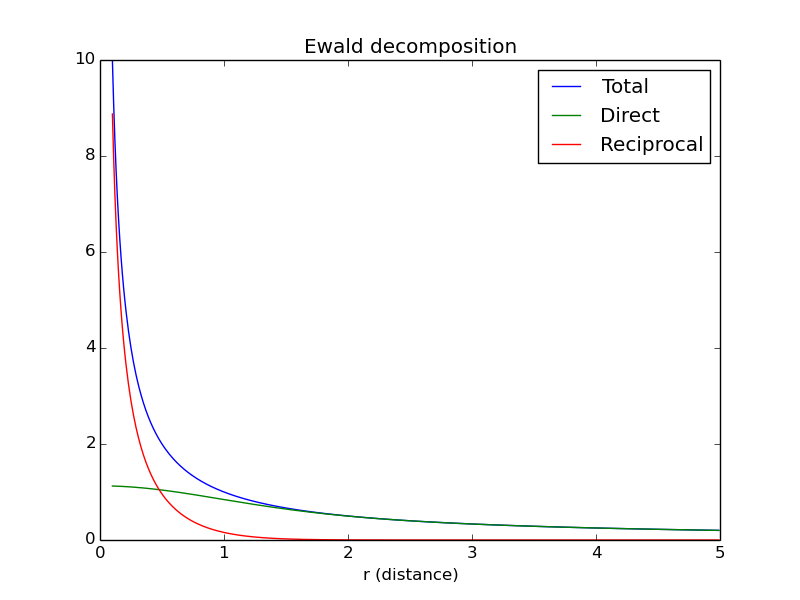
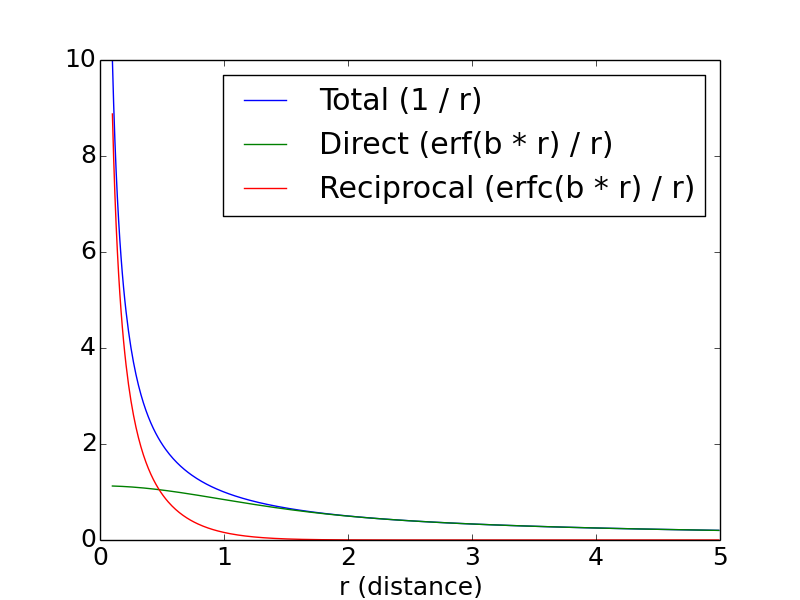
.

diff --git a/data/thesis/presentation.tex b/data/thesis/presentation.tex
@@ -7,15 +7,24 @@
 \usepackage{placeins}
 \usepackage{graphicx}
 \usepackage{tikz}
-\author{Aleksei Iupinov}
-\title{Particle mesh Ewald on a GPU}
+
+\DeclareMathOperator\erf{erf}
+\DeclareMathOperator\erfc{erfc}
+
+
+\author[Aleksei Iupinov]{Aleksei Iupinov\\{\footnotesize Supervised by: Berk Hess}}
+%\author{Aleksei Iupinov}
+\title{Master thesis project: \\Particle mesh Ewald on a GPU}
+\usepackage{subcaption}
 %\setbeamercovered{transparent} 
-%\setbeamertemplate{navigation symbols}{} 
+\setbeamertemplate{navigation symbols}{} 
 %\logo{} 
 \institute{KTH Royal Institute of Technology} 
 %\date{} 
 %\subject{} 
 \begin{document}
+%\setbeamertemplate{caption}{\raggedright\insertcaption\par}
+\captionsetup[figure]{labelformat=empty}
 
 \begin{frame}
 \titlepage
@@ -32,7 +41,7 @@
 \item scaling performance is important (timesteps of $10^{-15}$ seconds, processes of $10^{-6}$ -- $10^{-3}$ seconds) 
 \item the balance shifting towards GPU/accelerator hardware (core speed limited, increasing number of cores instead)
 \item most computational time taken by electrostatic interactions
-\item PME used for computing long-range component
+\item PME (particle mesh Ewald) used for computing so-called long-range component
 \end{itemize}
 \end{frame}
 
@@ -42,7 +51,8 @@
 \item particles coordinates $\bold{r}_1, \dotsc, \bold{r}_N$ and charges $q_1, \dotsc, q_N$ known, forces $\bold{f}_1, \dotsc, \bold{f}_N$ acting on particles to be computed 
 \item electrostatic potential:
 \[E(\bold{r}_1, \dotsc, \bold{r}_N) = \frac{1}{4 \pi \varepsilon_0}\sum\limits_{i < j}\frac{q_i q_j}{\lvert \bold{r}_i-\bold{r}_j\rvert}\]
-\[\bold{f_i} = \frac{\partial E}{\partial \bold{r_i}} \]
+\item forces are derived analytically:
+\[\bold{f_i} = -\frac{\partial E}{\partial \bold{r_i}} \]
 \item large $N$ and computational effort $O(N^2) \implies$ slow computation!
 \end{itemize}
 \end{frame}
@@ -50,29 +60,41 @@
 \section{Method}
 \begin{frame}{Ewald sum}
 \begin{itemize}
-\item interaction dependency is $\frac{1}{\lvert \bold{r}\rvert }$
-% graph of decompose
-% not converging?
-\item Ewald sum: decomposition into direct and reciprocal space components
 
-\FloatBarrier
-\begin{figure} 
-    \includegraphics[width=0.2\textwidth]{pics/cutoff1.png}
-\end{figure}
-\begin{figure} 
-    \includegraphics[width=0.2\textwidth]{pics/cutoff2.png}
-\end{figure}
-\FloatBarrier
+\item interaction dependency is $\frac{1}{\lvert \bold{r}\rvert }$
+\item Ewald sum: decomposition into direct and reciprocal space components, based on Gaussian error function
 % formulas
-\item the direct space component converges before a certain cut-off
-\item the reciprocal component converges well in the Fourier space
+\item the direct space component converges within a certain cut-off
+\item the reciprocal component converges in the Fourier space
 \end{itemize}
+%\noindent\makebox[\textwidth][c]{%
+\begin{figure} 
+\begin{minipage}[t]{0.4\textwidth}
+    \includegraphics[width=1\textwidth]{pics/{cutoff0.7}.png}
+\end{minipage}
+\begin{minipage}[t]{0.4\textwidth}
+    \includegraphics[width=1\textwidth]{pics/cutoff2.png}
+\end{minipage}
+\caption{Parametrized decomposition}
+\end{figure}
+%}
+
 \end{frame}
 
 \begin{frame}{Ewald sum}
+\[E = E_{dir} + E_{rec} + E_{corr}\,\mathrm{,}\]
+where
+\begin{equation} \label{eq:Edir}
+E_{dir} = \frac{1}{2}\sum\limits_{\bold{n\in \mathbb{Z}}}^*\sum\limits_{i=1}^N\sum\limits_{j=1}^N\frac{q_i q_j \erfc(\beta\lvert\bold{r}_i - \bold{r}_j + \bold{n} \rvert)}{\lvert\bold{r}_i - \bold{r}_j + \bold{n} \rvert}
+\end{equation}
+\begin{equation} \label{eq:Erec}
+E_{rec}=\frac{1}{2\pi V}\sum\limits_{\bold{m} \in \{\mathbb{Z}^3 \setminus \mathbb{0}\}}\frac{\exp(-\frac{\pi^2\bold{m}^2}{\beta^2})}{\bold{m}^2}S(\bold{m})S(\bold{-m})
+\end{equation}
+\[E_{corr} = -\frac{1}{2}\sum\limits_{(i,j)\in M}\frac{q_i q_j \erf(\beta\lvert\bold{r}_i - \bold{r}_j\rvert)}{\lvert\bold{r}_i - \bold{r}_j\rvert} - \frac{\beta}{\sqrt{\pi}}\sum\limits_{i=1}^N q_i^2\]
 \begin{itemize}
 \item Fourier component $\implies$ periodic boundary conditions (system is a unit cell tiled in all directions)
 \item charge neutrality of the unit cell is needed for convergence
+\item additional correction component (bonded interactions split from direct sum)
 \item can be implemented in $O(N^\frac{3}{2})$
 %\item manipulating the cut-off can change the balance
 
@@ -89,34 +111,36 @@
 \item interpolation onto a discrete 3D grid
 \item smooth PME: B-Spline interpolation, the potential function is smooth $\implies$ simple analytical derivation of forces
 \item can be implemented in $O(N \log(N))$
+% formulas
 \end{itemize}
 \end{frame}
 
 \begin{frame}{PME stages}
 \begin{enumerate}
-\item Calculate the B-spline interpolation values for all particles (equation \eqref{BSpline}).
-\item Spread the particle charges on a discrete 3D grid (using the spline values), calculating the array $Q$ (equation \eqref{Qspread}).
-\item Perform three-dimensional real-to-complex FFT of the grid.
-\item Calculate the reciprocal energy contribution(equation \eqref{Erecfull}), transform the grid.
-\item Perform three-dimensional complex-to-real FFT of the convoluted grid.
-\item Gather the particle forces from the grid (using the spline values) (equation \eqref{Fgather}).
+\item calculate the B-spline interpolation values for all particles
+\item spread the particle charges on a discrete 3D grid
+\item perform three-dimensional real-to-complex FFT of the grid
+\item calculate the reciprocal energy contribution(equation \eqref{Erecfull}), transform the grid
+\item perform three-dimensional complex-to-real FFT of the grid
+\item gather the particle forces from the grid
 \end{enumerate}
 \end{frame}
 
 %pictures?
 
 \section{Implementation}
-\begin{frame}{Implementation (or still problem)}
+\begin{frame}{Implementation}
 \begin{itemize}
 \item open source MD software GROMACS 5.1
 \item short-range particle pair interactions computed either on CPU or GPU (CUDA/OpenCL)
 \item PME only implemented for CPU
-\item PME GPU implementation can mean: more performance, more load balancing, more GPU hardware utilisation, less CPU bottleneck 
+%\item PME GPU implementation can mean: more performance, more load balancing, more GPU hardware utilisation, less CPU bottleneck 
 %mention cutoff
 \end{itemize}
 \end{frame}
 
-\begin{frame}{PME GPU implementation potential benefits}
+\begin{frame}{Potential benefits of PME on GPU}
+% should be moved
 \begin{itemize}
 \item more performance
 \item more possibilities for load balancing
@@ -125,7 +149,35 @@
 \end{itemize}
 \end{frame}
 
-\begin{frame}{...}
+\begin{frame}{MD time step in GROMACS}
+\begin{figure}
+    \centering
+    \includegraphics[width=1\textwidth]{pics/mdstep-orig.png}
+    \caption{Timeline of MD step in a single-process GROMACS simulation}
+    \label{fig:step-orig}
+\end{figure}
+\FloatBarrier
+\end{frame}
+
+\begin{frame}{MD time step in GROMACS, modified for PME GPU}
+\begin{figure}
+    \centering
+    \includegraphics[width=1\textwidth]{pics/mdstep-gpu.png}
+    \caption{Timeline of a modified MD step with PME GPU}
+\end{figure}
+\FloatBarrier
+\end{frame}
+
+%\begin{frame}{Calculating the spline parameters}
+%\begin{itemize}
+
+\begin{frame}{Spreading the charges}
+\begin{itemize}
+\item a large part of the runtime
+\item charges accumulated onto the grid in parallel $\implies$ clashes of atomic operations
+\item a single thread works on one line of contributions, 
+\item block of threads works on 8 particles
+\end{itemize}
 \end{frame}
 
 
@@ -138,23 +190,24 @@
 \end{frame}
 
 
+\begin{frame}{FFT}
+\end{frame}
+
 \begin{frame}{weird FFT}
 \end{frame}
 
 \section{Results}
 \begin{frame}{Results}
 \begin{itemize}
-\item implemented for a single GPU (should be extensible...)
+\item implemented for a single GPU
 \item supports GPU and CPU FFT, which is the main parallelization barrier 
 \item only interpolation order of 4 (again, not a big limitation, the core is there)
-\item works in a single PME/PP process
-\item or as a single PME process with several PP ranks
-\item viable for small simulations on machines with several GPUs
-\item hopefully parallelized
+%\item works in a single PME/PP process
+%\item or as a single PME process with several PP ranks
 \item load balancing works
 \item integrated soon, accessible here
-% mroe about decomposition
-% mroe about tuning
+% more about decomposition
+% more about tuning
 % more about B-splines
 % references?
 \end{itemize}
@@ -162,39 +215,48 @@
 
 
 
-\begin{frame}{Single process CPU/GPU comparison}
+\begin{frame}{Single process CPU/GPU comparison, 134201 atoms}
 \begin{itemize}
-\item short-range computed on GPU
-\item PME computed either on a CPU or on NVIDIA Quadro M6000 GPU
+\item short-range computed on GPU (NVIDIA GTX Titan X)
+\item PME computed either on a CPU (Intel Core i7-5960X) or on the same GPU
+% threads varied
 \end{itemize}
-%described comnditions
 \FloatBarrier
 \begin{figure} [h!]
     \centering
     \includegraphics[width=0.8\textwidth]{pics/CPU_GPU_ADH_SINGLE.png}
 \end{figure}
+% superiority over weak CPUs
 \FloatBarrier
 \end{frame}
 
-
-%{This comparison demonstrates not only a noticeable parallelization speed-up of a separate rank PME on a high-end GPU, but also a possibility of shifting the PME workload onto a GPU from the CPU. It is possible to enhance the load balancing algorithm of GROMACS to perform the switching between GPU and CPU PME dynamically as required.%}
-
-For the next comparison the same machine is used, but a simulation consisting of 2 separate processes is ran: 1 PP and 1 PME process. The PP process performs the short-range computations on the high-end NVIDIA GPU GTX Titan X, as before.    
-The PME process is ran in one case on the CPU (Intel Core i7-5960X), and in another case on the second NVIDIA GPU Quadro M6000. The number of the threads used by the processes is varied from 1 to 8.
- 
-The resulting simulation performance comparison between the separate CPU and GPU PME ranks is presented at the figure \ref{fig:sepGPUNEW}.
-\begin{frame}{Separate process CPU/GPU comparison}
+\begin{frame}{2 processes (1 PP / 1 PME) CPU/GPU comparison}
+\begin{itemize}
+\item short-range computed on GPU (NVIDIA GTX Titan X)
+\item PME computed either on a CPU (Intel Core i7-5960X) or on the second GPU (NVIDIA Quadro M6000)
+\end{itemize}
 \FloatBarrier
+% threads varied
 \begin{figure} [h!]
     \centering
-    \includegraphics[width=1\textwidth]{pics/CPU_GPU_ADH.png}
+    \includegraphics[width=0.8\textwidth]{pics/CPU_GPU_ADH.png}
     \label{fig:sepGPUNEW}
 \end{figure}
 \FloatBarrier
 \end{frame}
 
 \section{Conclusion}
+
 \begin{frame}{Conclusion}
+\begin{itemize}
+\item the single GPU implementation provides a basis for further tuning
+\item supports a separate PME process with direct space decomposed over multiple PP processes, already viable for machines with several NVIDIA GPUs 
+\item should be easily extensible for scaling over multiple GPUs
+(compatible with the CPU FFT code supporting the Fourier grid decomposition)
+\item tshould also be easily extensible for interpolation orders other than 4
+(higher orders $\implies$ coarser grid $\implies$ less communication)
+
+\end{itemize}
 \end{frame}
 
 \begin{frame}[plain]
@@ -203,14 +265,8 @@ The resulting simulation performance comparison between the separate CPU and GPU
 
 %references
 
+%PP
 
-
-
-
-
-
-
-
-
+% where does the grid size come from?x
 
 \end{document}

diff --git a/data/thesis/cutoff.py b/data/thesis/cutoff.py
@@ -3,18 +3,23 @@ import matplotlib.pyplot as plt
 import math
 
 # Compute the x and y coordinates for points on a sine curve
-x = np.arange(0.1, 5, 0.01)
+x = np.arange(0.01, 5, 0.01)
 y = 1 / x
-beta = 1
+beta = 0.7
 ydir = [math.erf(beta * i) / i for i in x]
 yrec = [math.erfc(beta * i) / i for i in x]
 
+plt.rcParams.update({'font.size': 18})
+
 # Plot the points using matplotlib
-plt.plot(x, y, label='Total')
-plt.plot(x, ydir, label='Direct')
-plt.plot(x, yrec, label='Reciprocal')
+plt.plot(x, y, label='Total (1 / r)')
+plt.plot(x, ydir, label='Direct (erf('+str(beta)+' * r) / r)')
+plt.plot(x, yrec, label='Reciprocal (erfc('+str(beta)+' * r) / r)')
 plt.xlabel('r (distance)')
-plt.title('Ewald decomposition')
+plt.xlim(xmin=0, xmax=4)
+plt.ylim(ymin=0, ymax=4)
+#plt.ylabel('r (distance)')
+# plt.title('Dependency')
 plt.legend()
 #plt.show()  # You must call plt.show() to make graphics appear.
 

diff --git a/data/thesis/thesis report.tex b/data/thesis/thesis report.tex
@@ -294,6 +294,8 @@ PME process/rank - a GROMACS process that performs exclusively PME calculations.
 
 PP process/rank - a GROMACS process that performs exclusively PP calculations (bonded and NB).  
 
+%\draft{Atomic}
+
 \section{PME and short-range implementations} \label{rangeimpl}
 
 The short-range calculations typically dominate the computational effort, so they remain the main optimization target in GROMACS. Since version 4.6 \cite{gromacs46}, GROMACS features native GPU acceleration for short-range non-bonded computations, as well as OpenMP parallelization. Moreover, there are many optimizations targeting specific versions of CUDA, OpenCL architectures and different SIMD instruction sets. 
